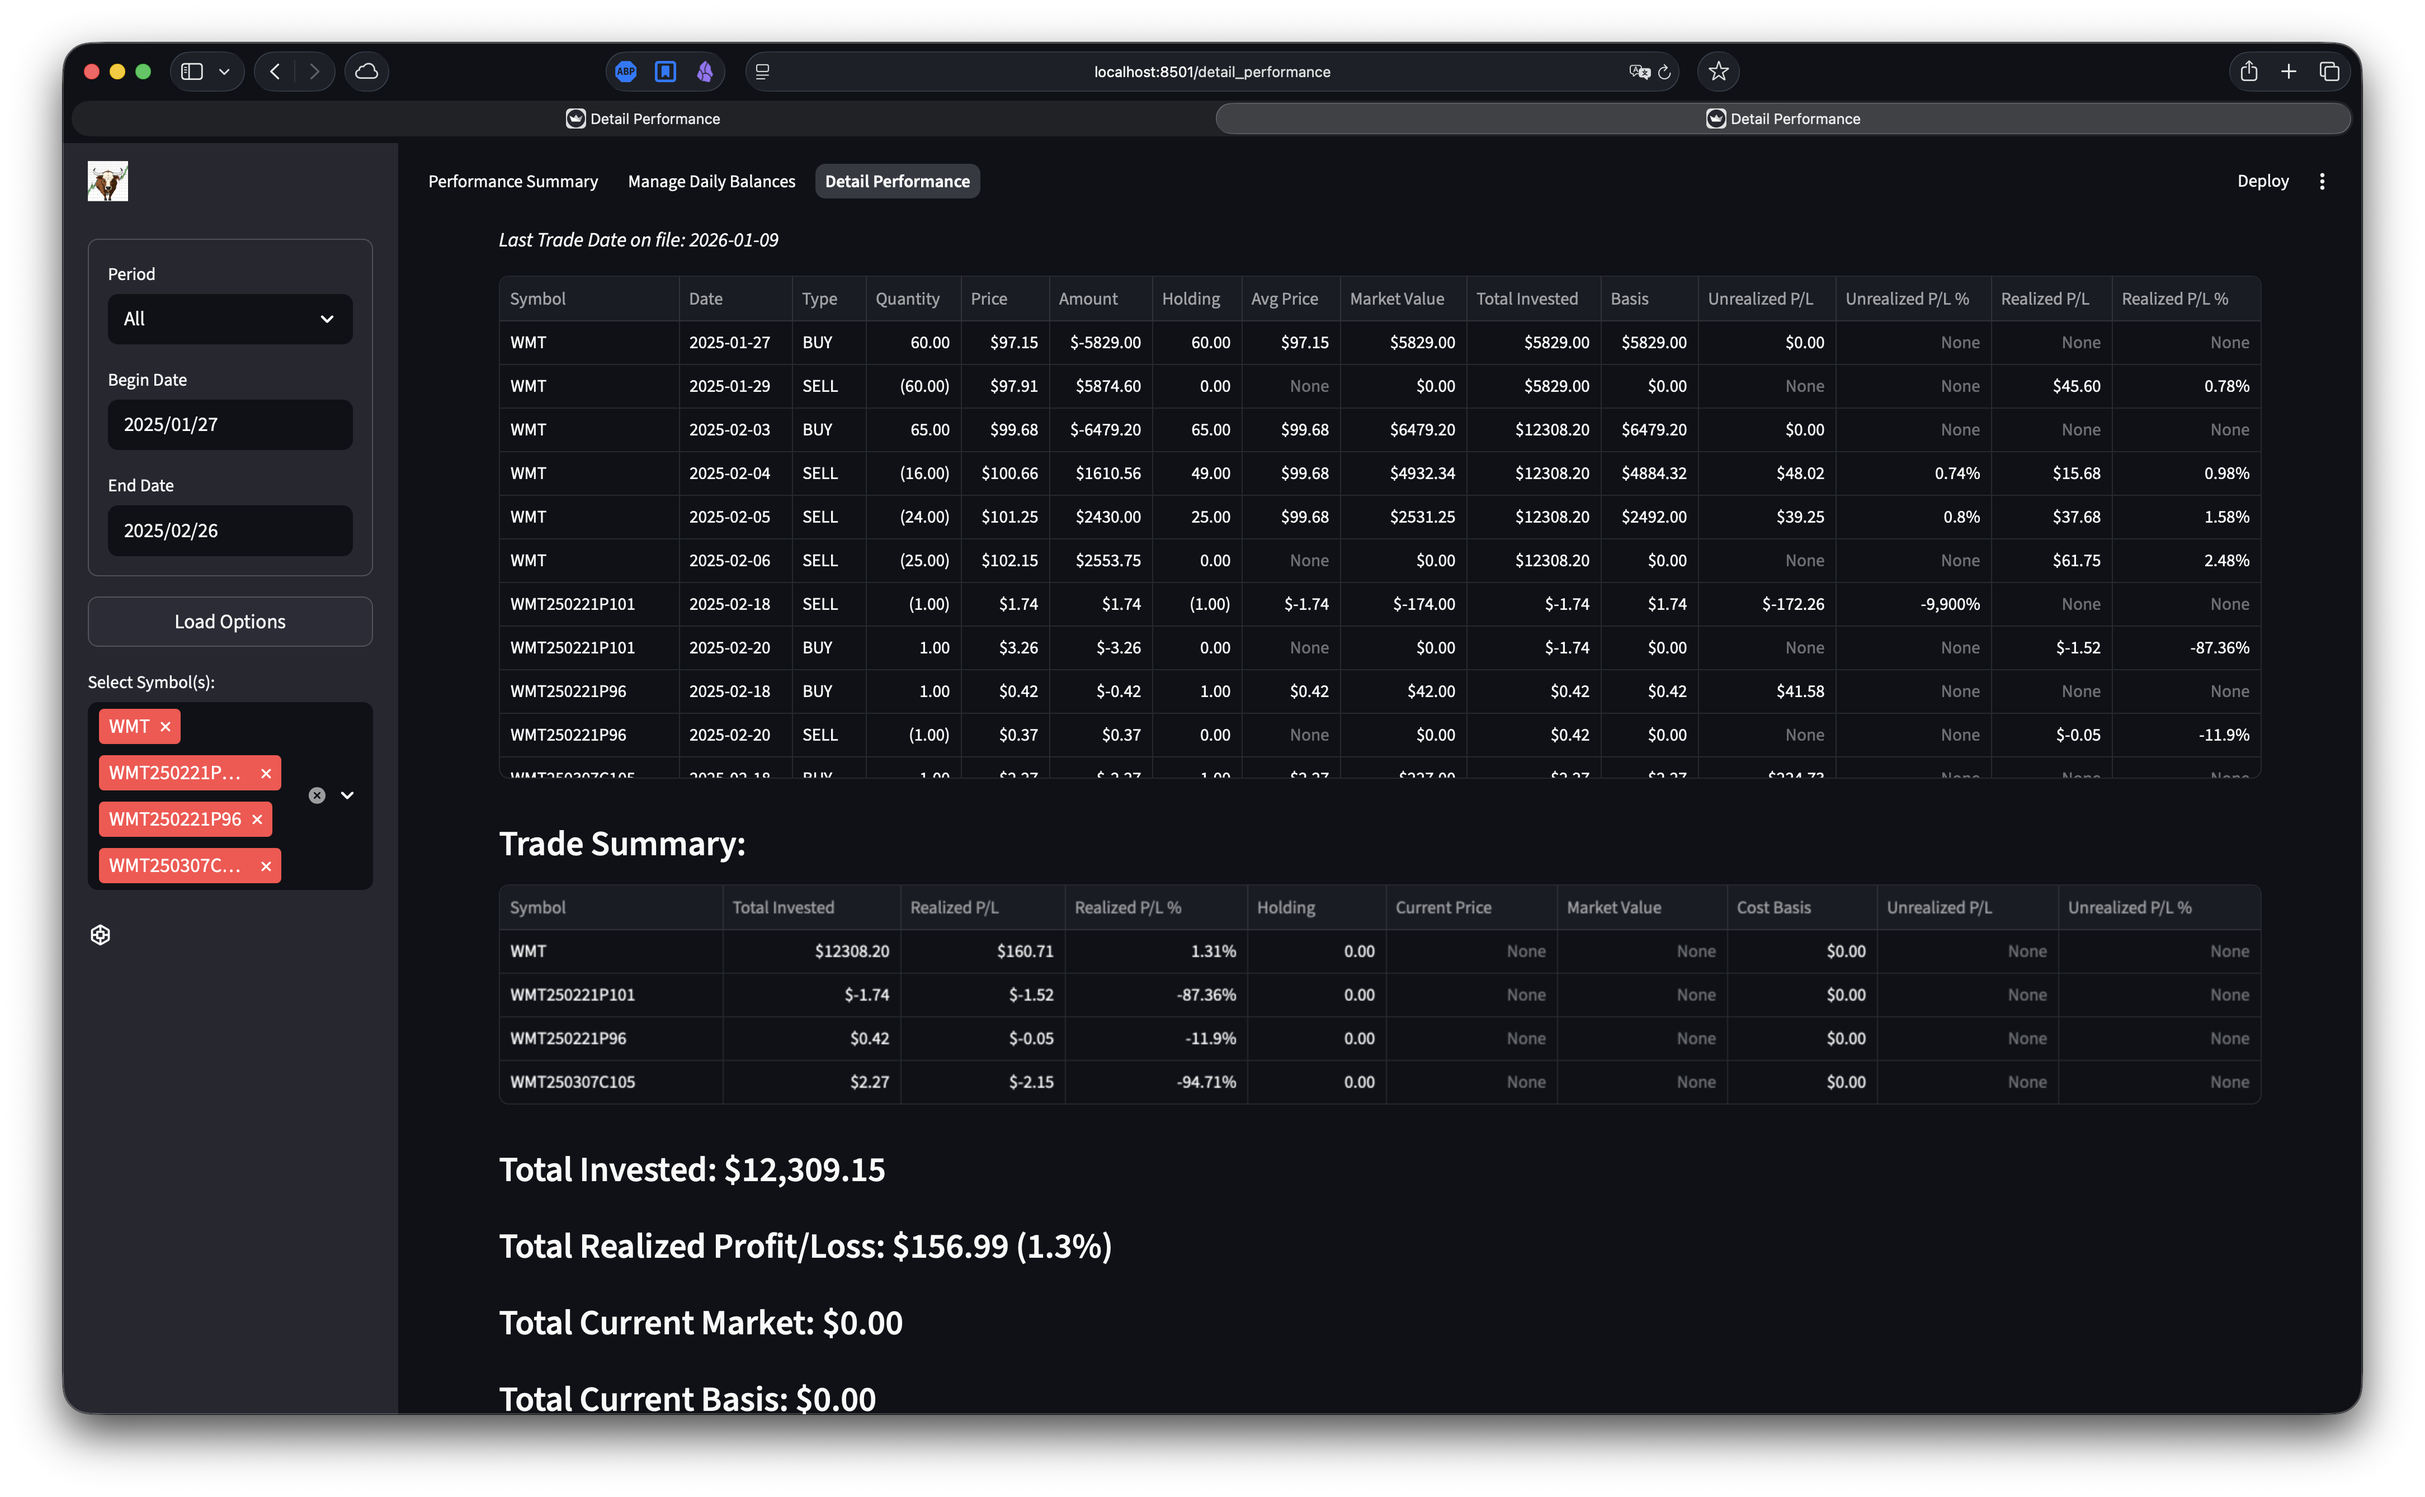
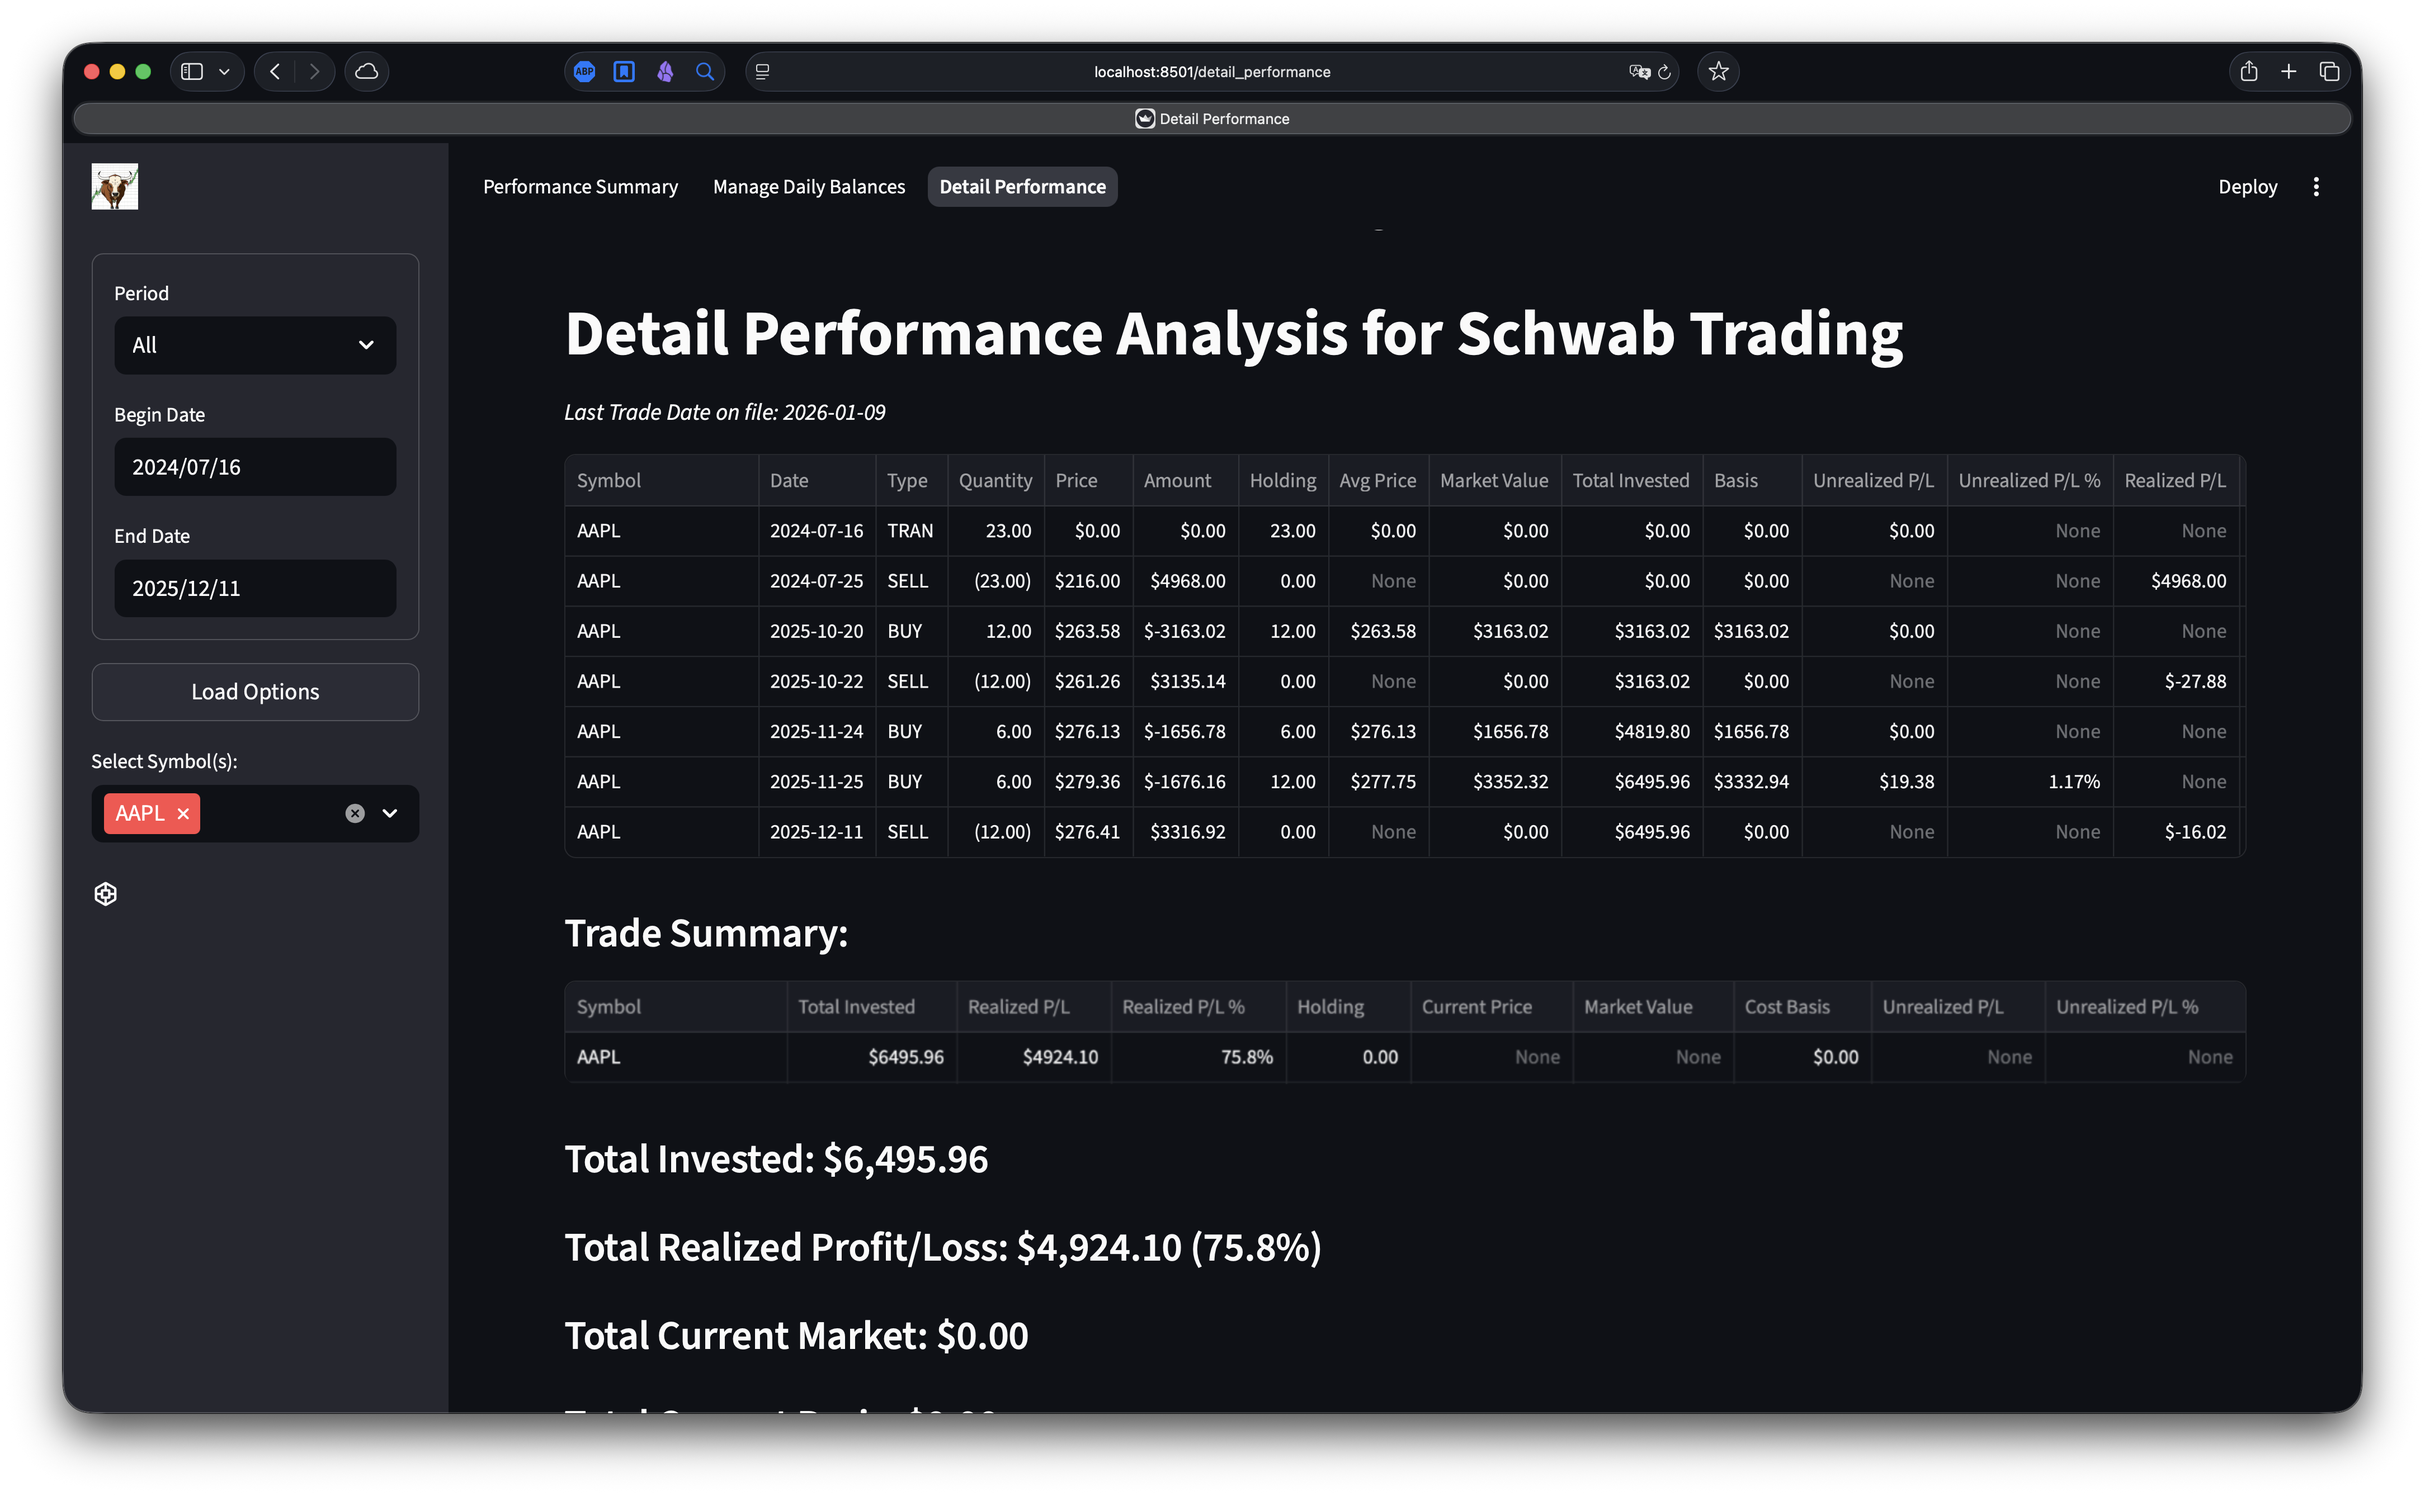
update screen shots

diff --git a/README.md b/README.md
@@ -22,7 +22,7 @@ NOTE: This is very much a work in progress. I am working to improve data acquisi
 
 ![Manage Daily Balances](assets/manage_bal.png)
 
-![Detail Performance Analysis](assets/manage_bal.png)
+![Detail Performance Analysis](assets/det_perf_anly.png)
 
 ---
 
